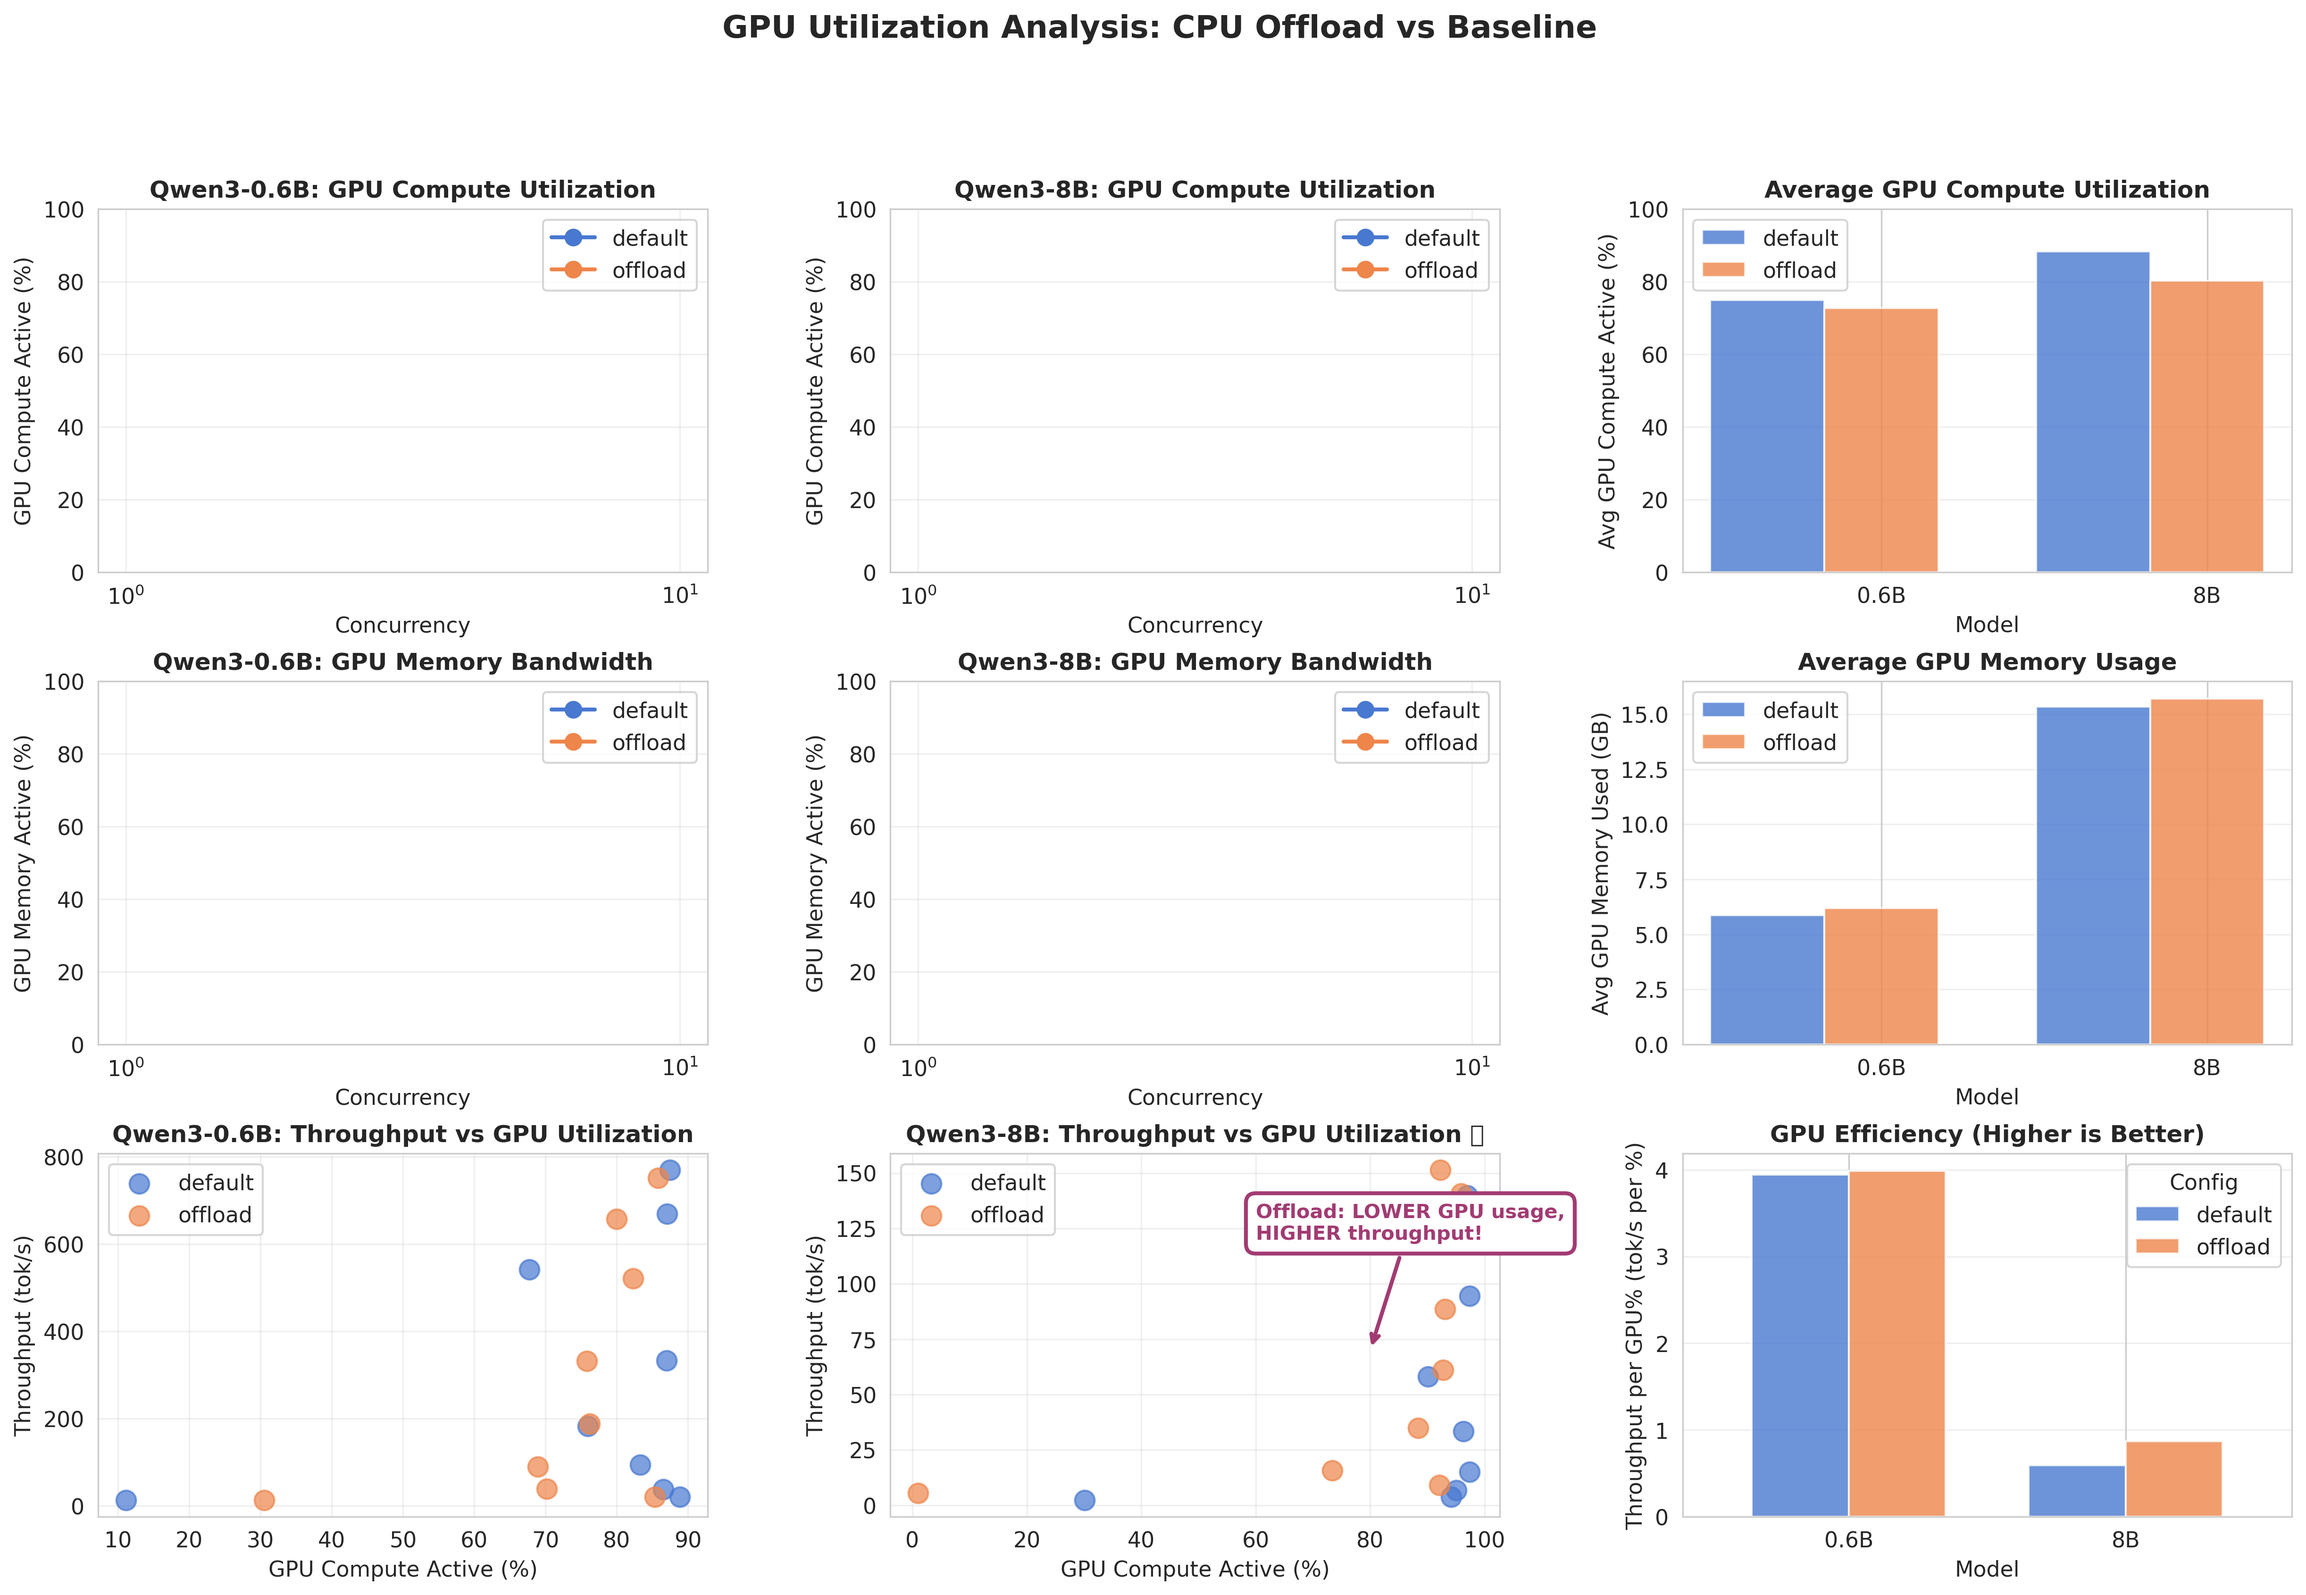
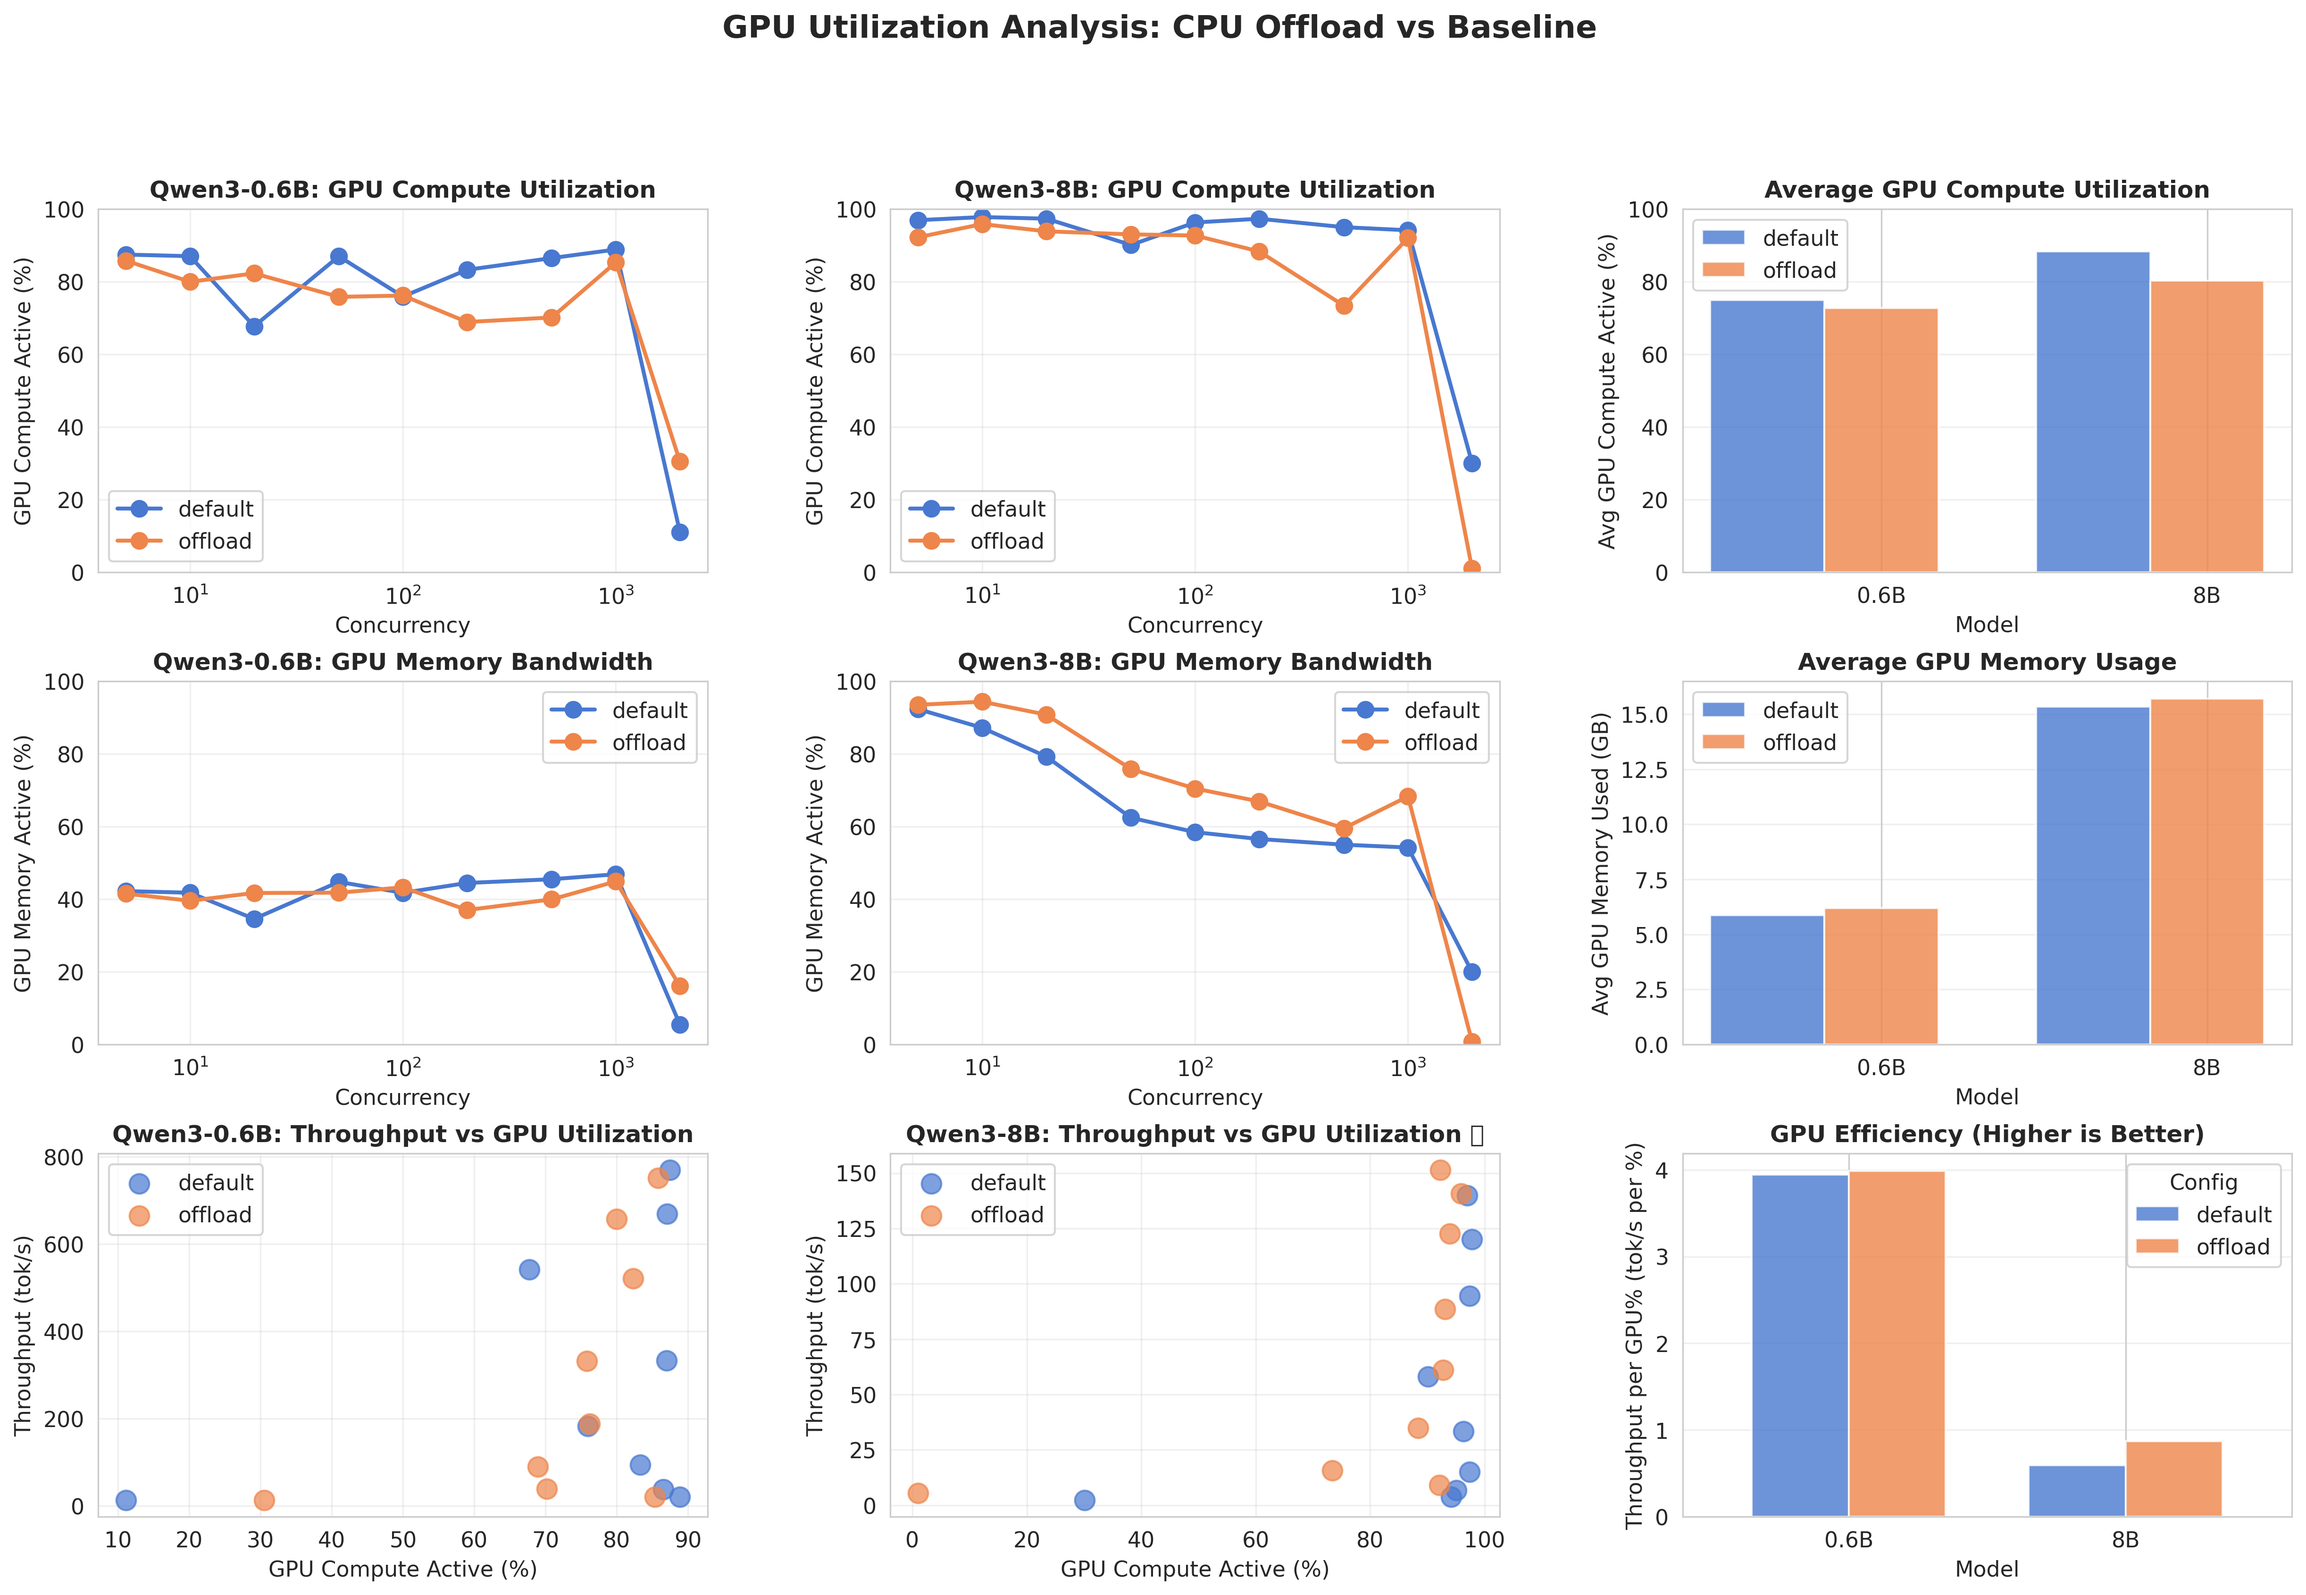
Fix GPU graphs showing no data points by using correct concurrency column

diff --git a/vllm-kvcache-cpu-offload-eval/analyze_gpu_detailed.py b/vllm-kvcache-cpu-offload-eval/analyze_gpu_detailed.py
@@ -49,7 +49,7 @@ for idx, row in df_results[~df_results['is_warmup']].iterrows():
     gpu_data.append({
         'model': row['model'],
         'config_label': row['config_label'],
-        'concurrency': row['concurrency'],
+        'concurrency': row['concurrency.1'],
         'throughput': row['tokens_per_second'],
         'ttft_ms': row['ttft_ms'],
         'tpot_ms': row['tpot_ms'],
